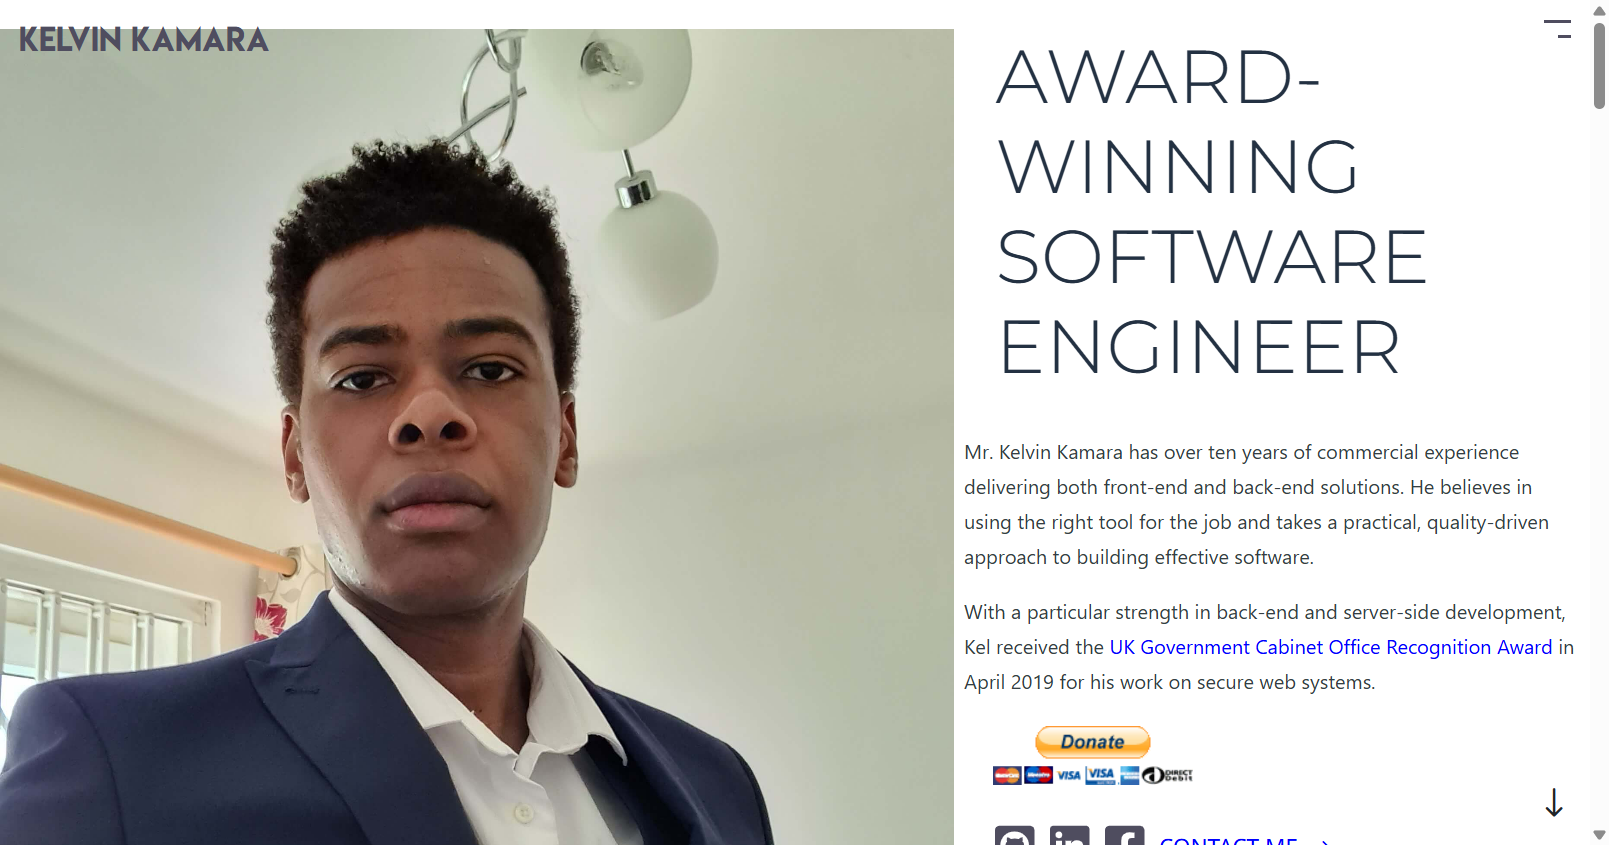
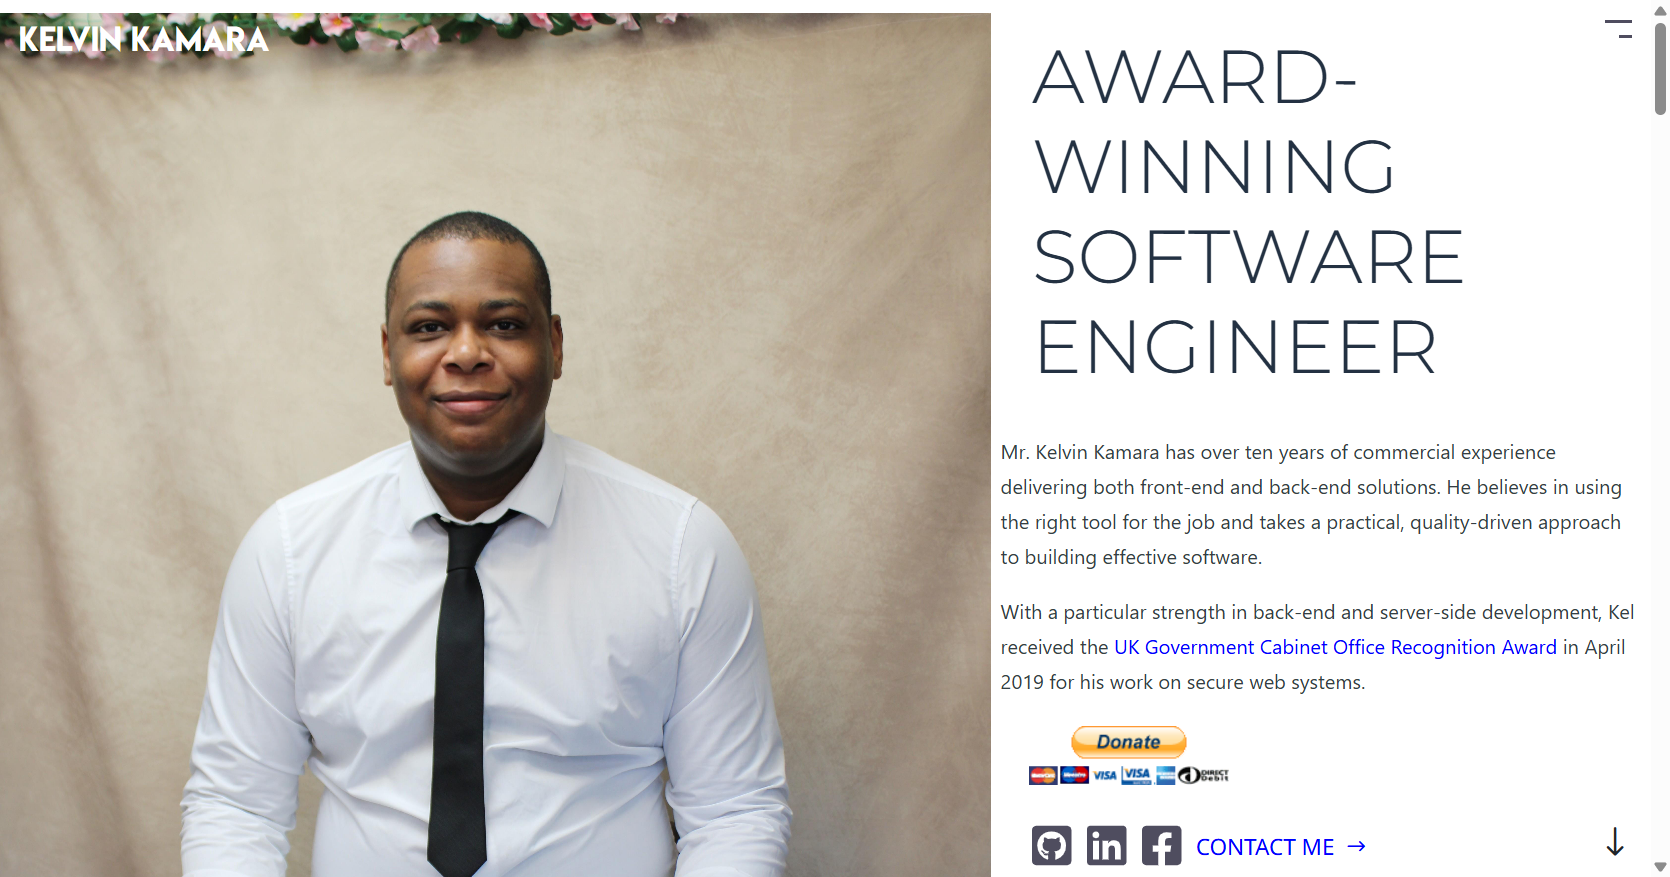
Update window size & update screenshot

diff --git a/app/Console/Commands/BrowserScrape.php b/app/Console/Commands/BrowserScrape.php
@@ -51,7 +51,7 @@ class BrowserScrape extends Command
                     // '--start-maximized',
                     '--ignore-certificate-errors',
                     '--user-agent=Mozilla/5.0 (Windows NT 10.0; Win64; x64) AppleWebKit/537.36 (KHTML, like Gecko) Chrome/79.0.3945.88 Safari/537.36',
-                    '--window-size=1300,825',
+                    '--window-size=1350,850',
                     // '--headless',
                     // '--disable-gpu',
                 ],
